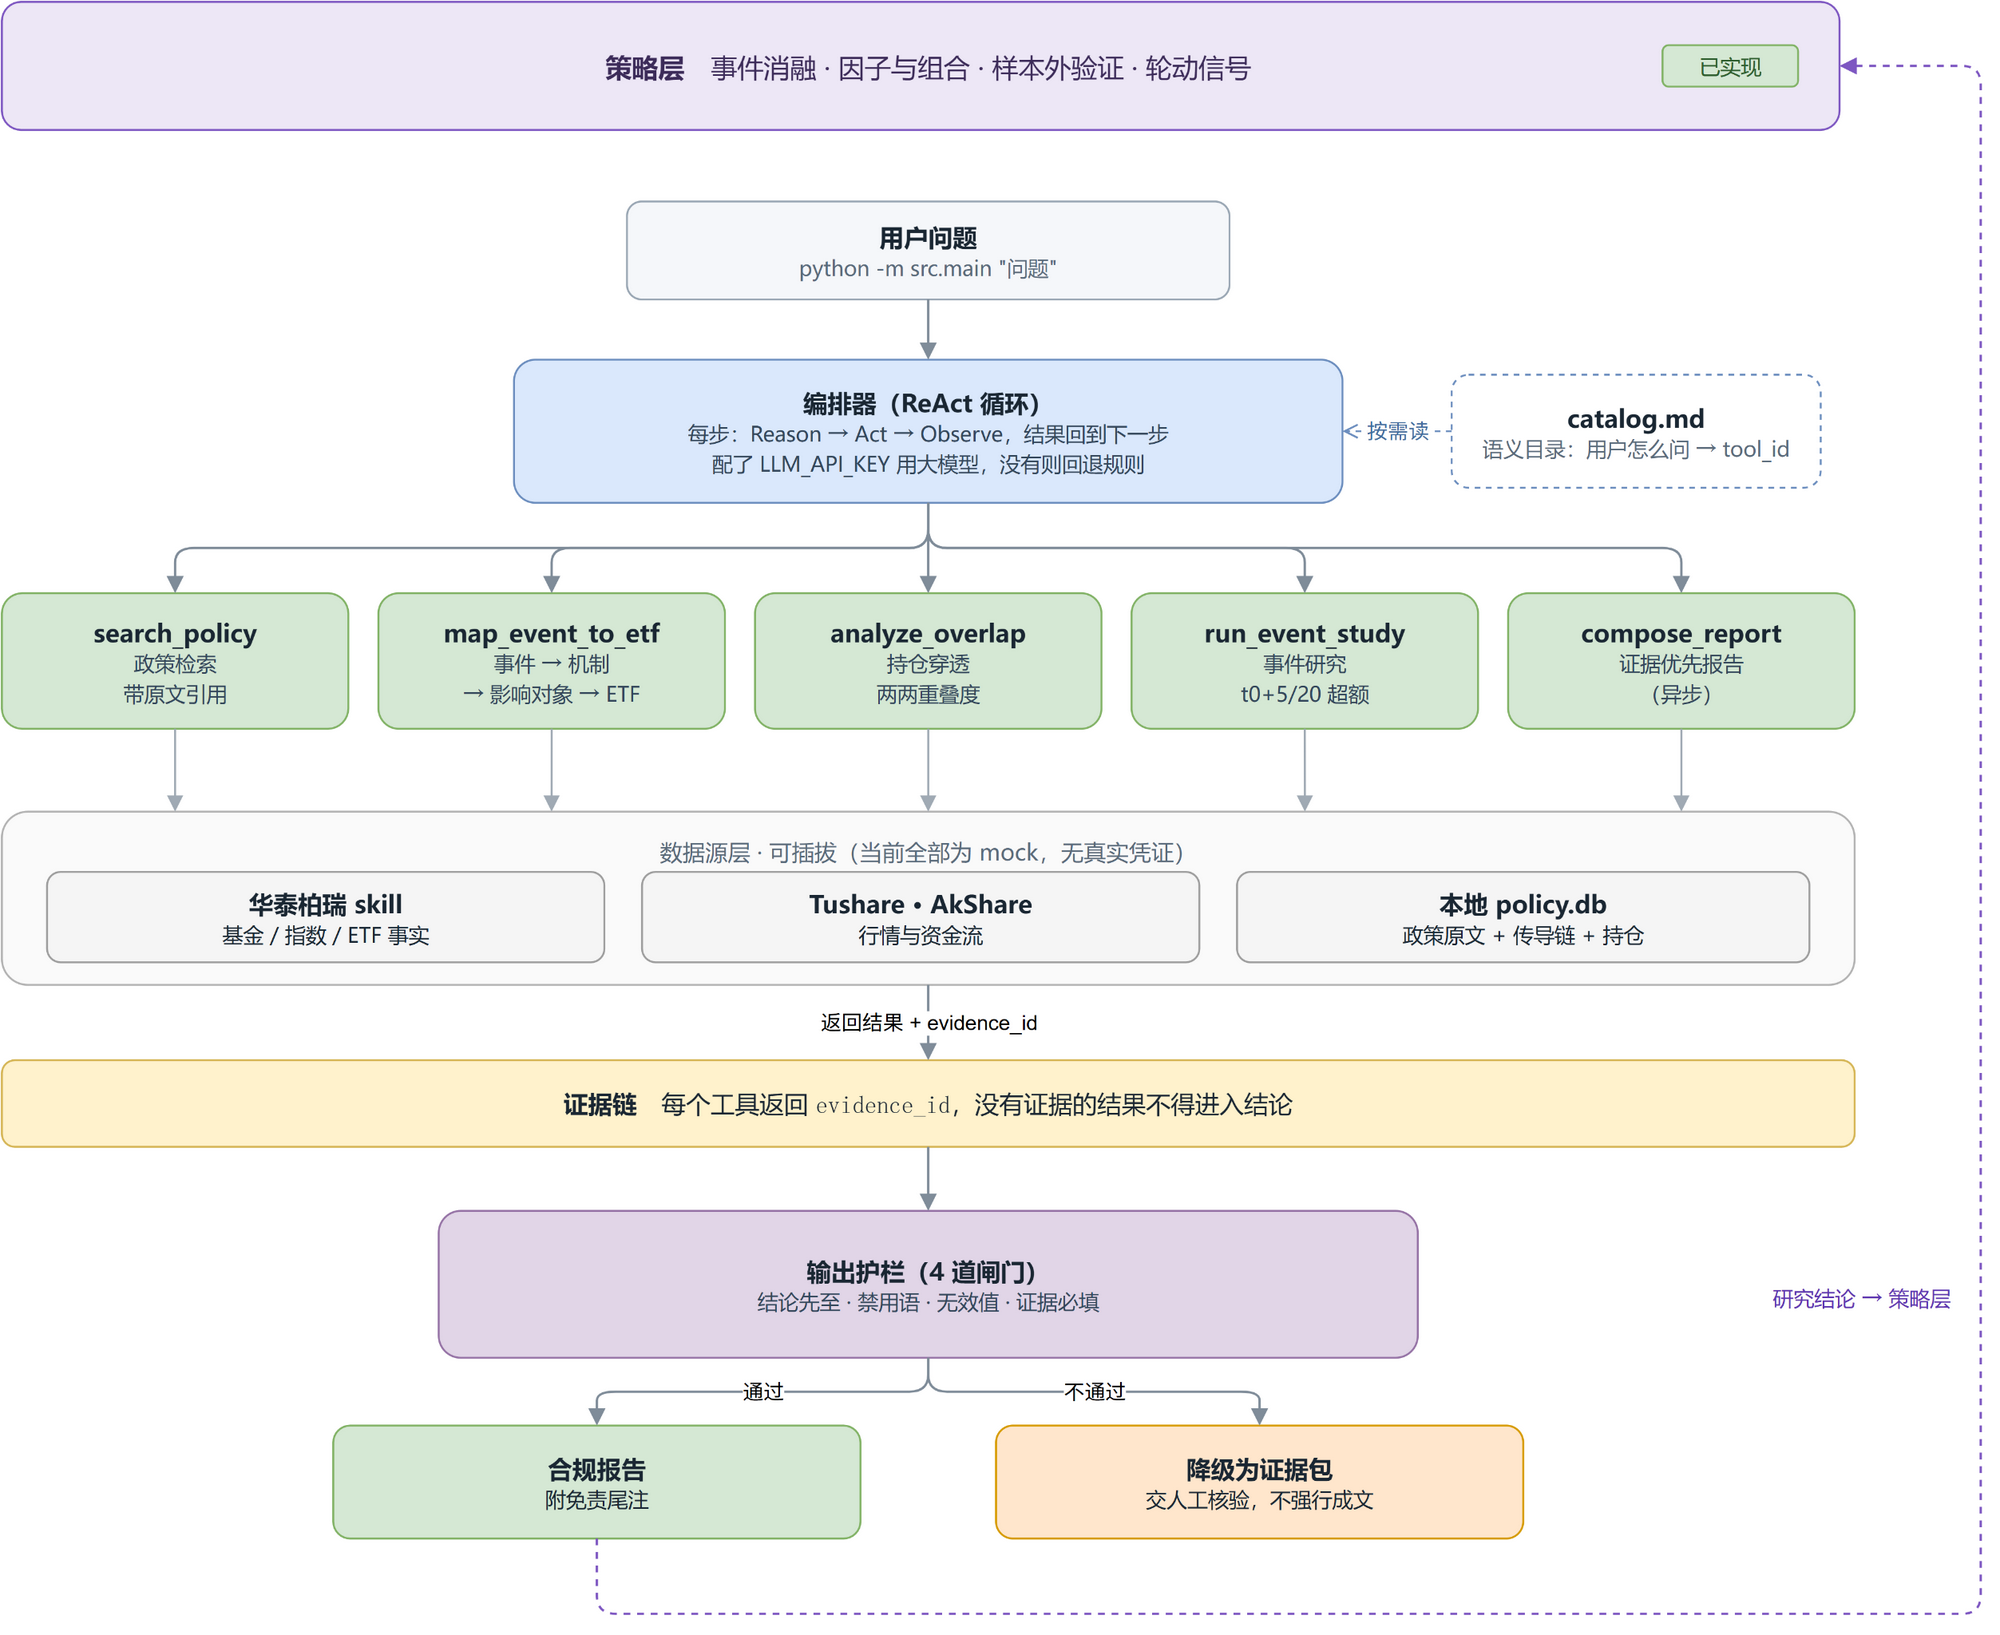
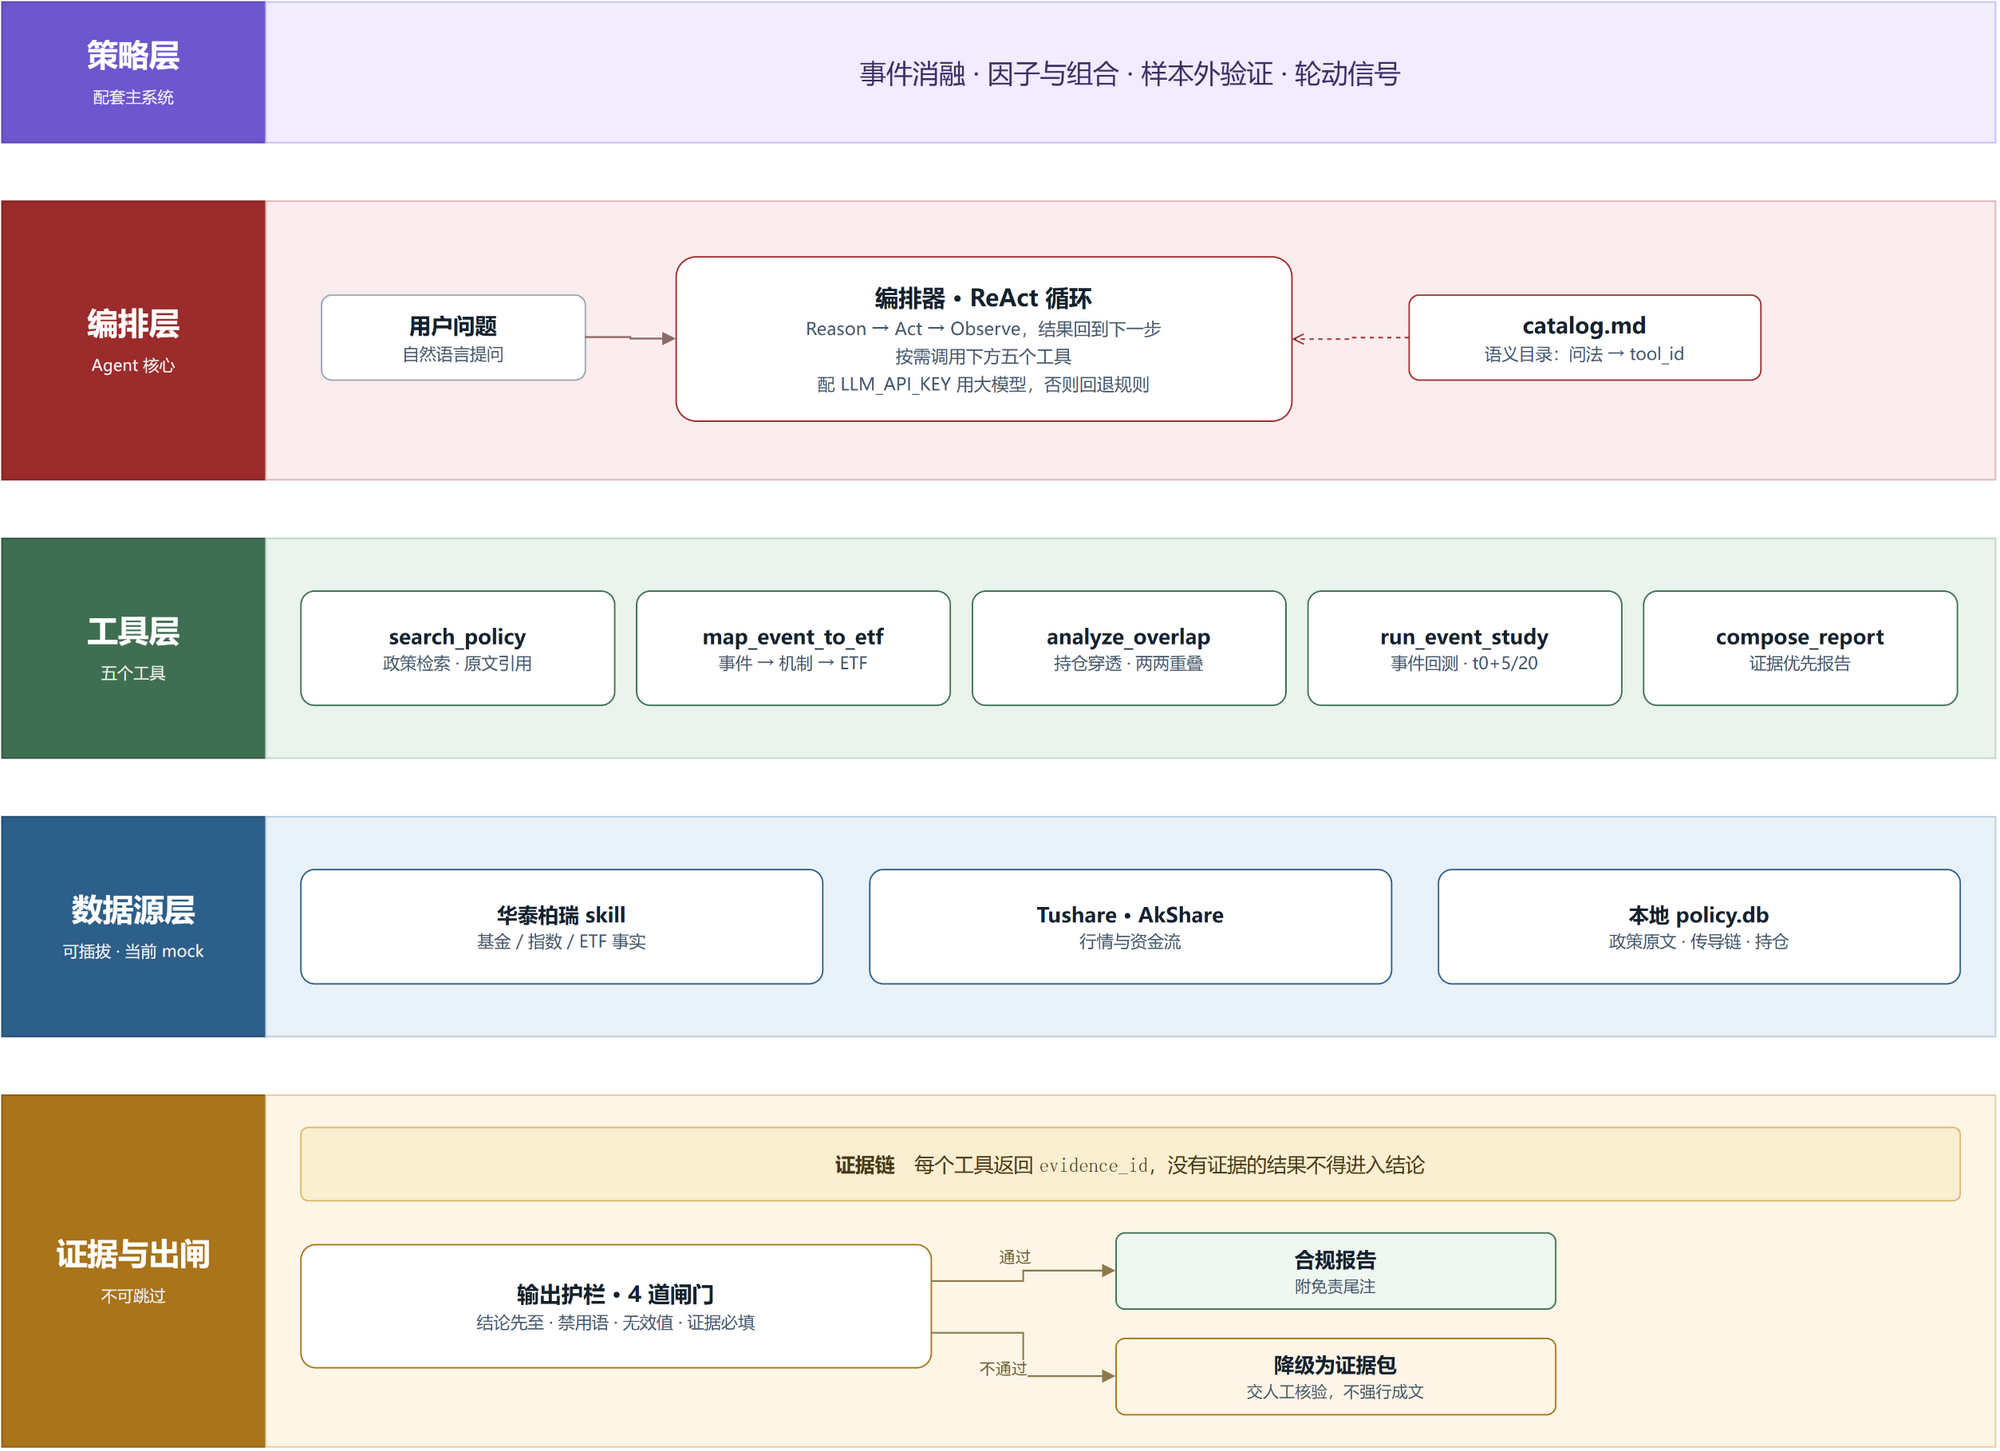
docs: 架构图改回分层色带版式，去掉已实现角标

diff --git a/README.md b/README.md
@@ -16,7 +16,7 @@
 合稿后必须过输出护栏，不过关就降级为证据包，而不是照发。
 
 策略层位于最上方，在配套的主系统里实现（事件消融、因子与组合、样本外验证、轮动信号）；
-**本仓库聚焦下面三层**：编排器、五个工具、输出护栏。
+**本仓库聚焦下面四层**：编排器、五个工具、可插拔数据源、证据与出闸。
 
 > 可编辑源文件：[`docs/architecture.drawio`](docs/architecture.drawio)
 
